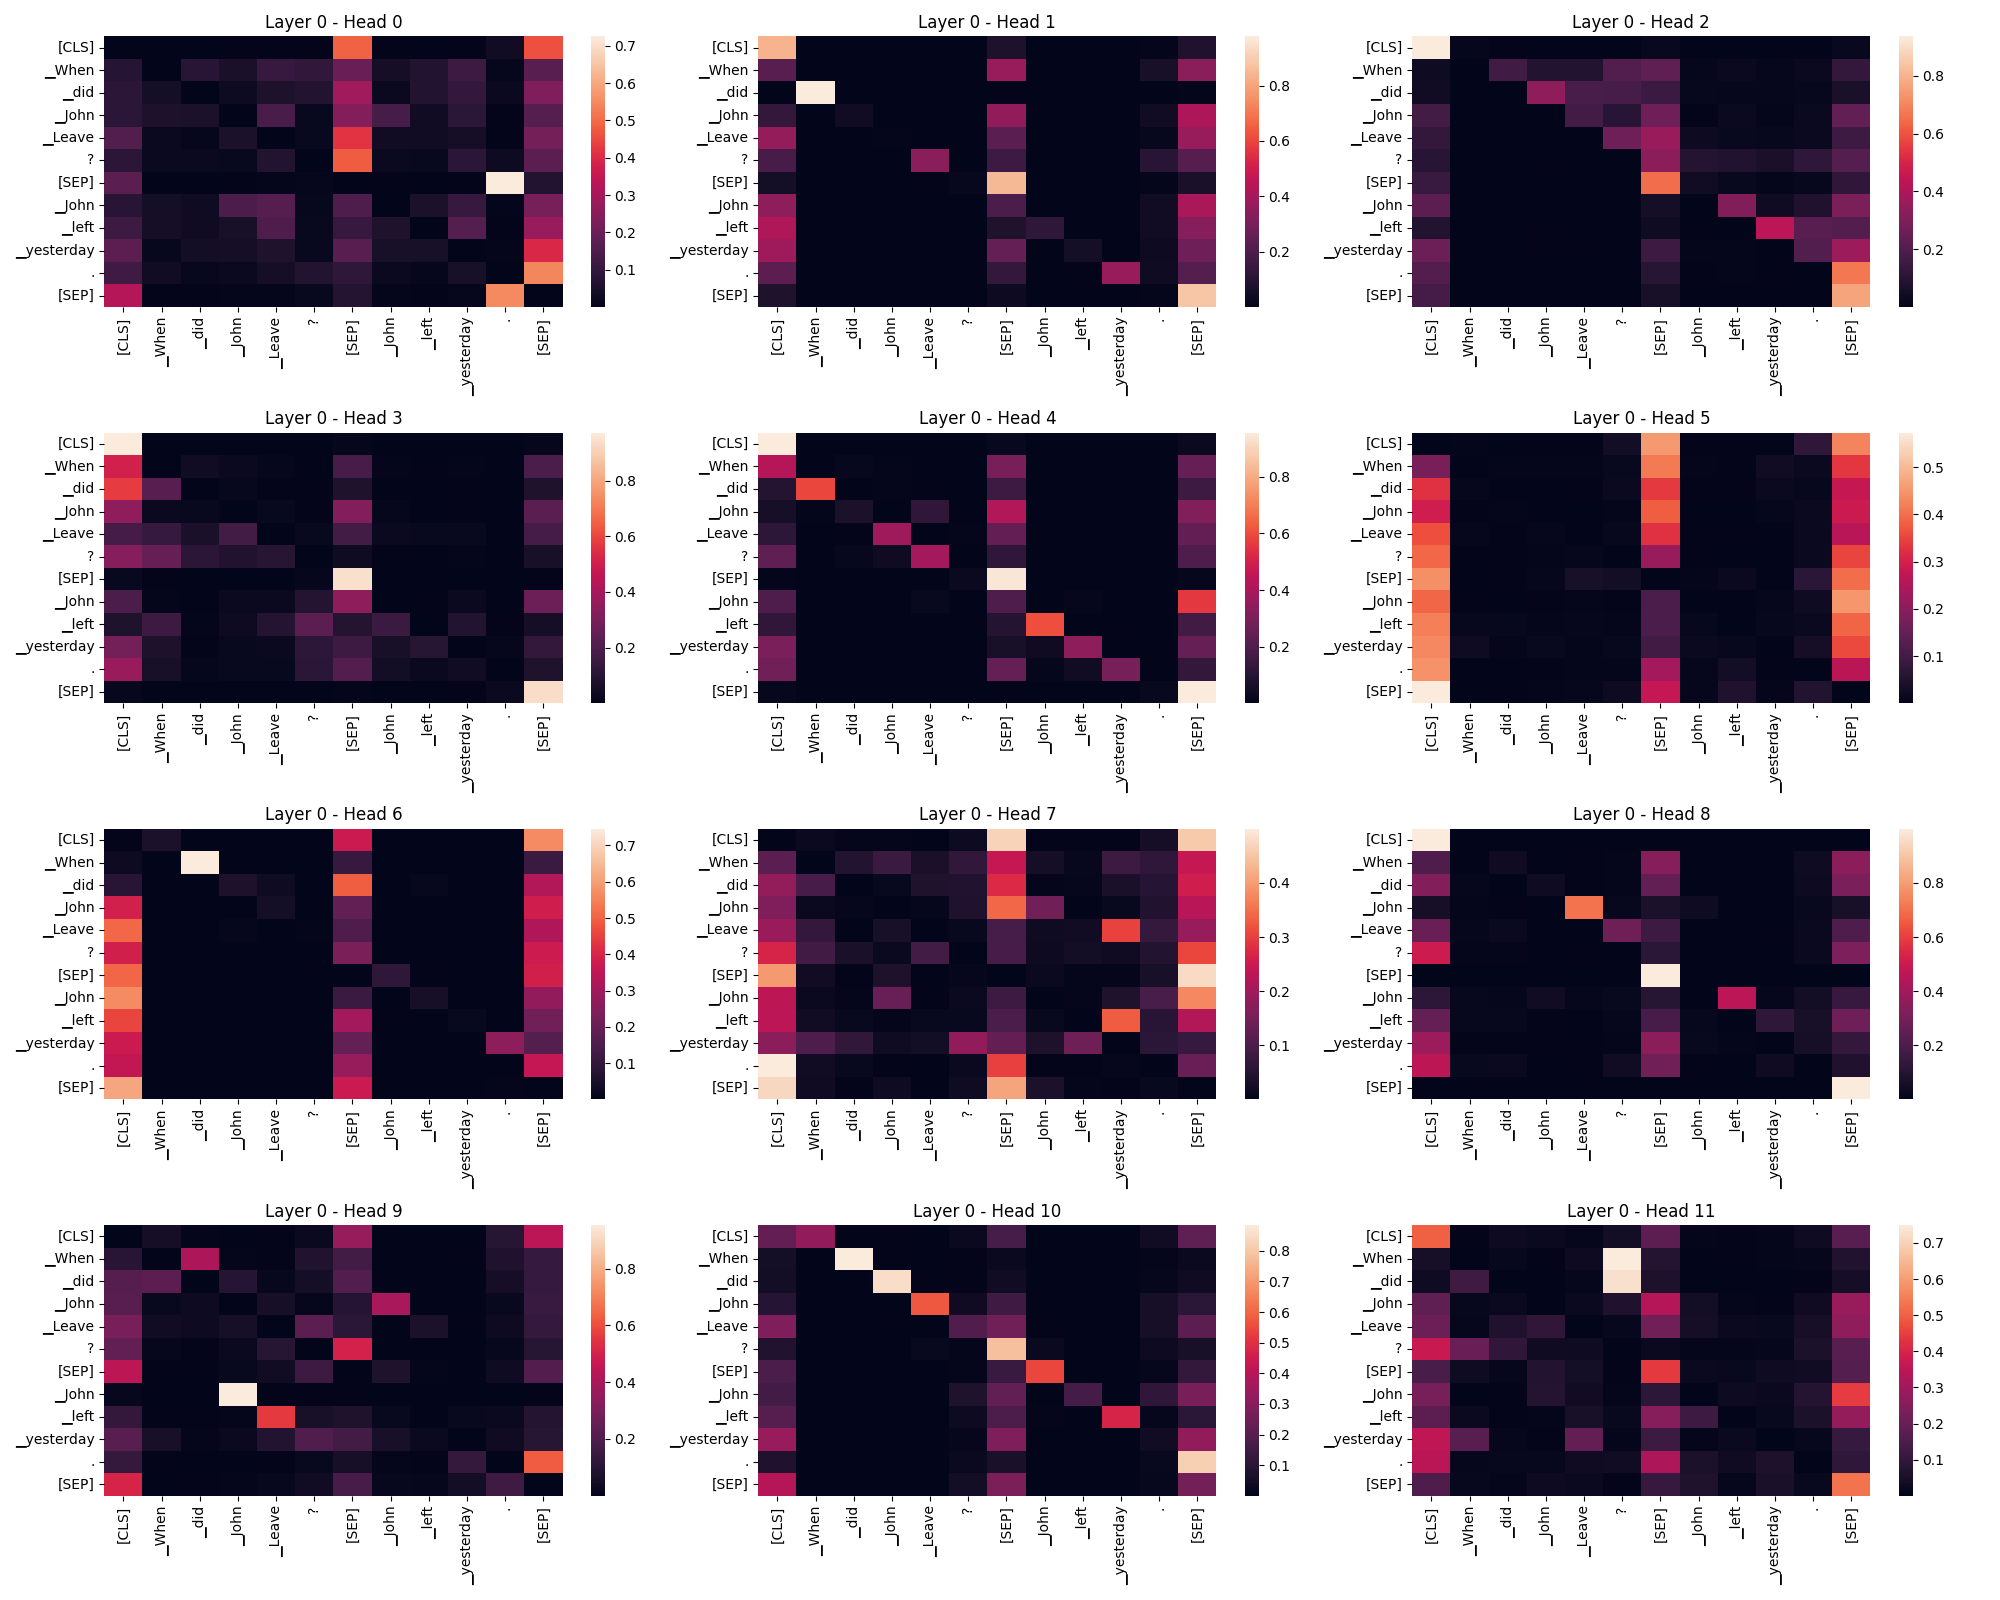
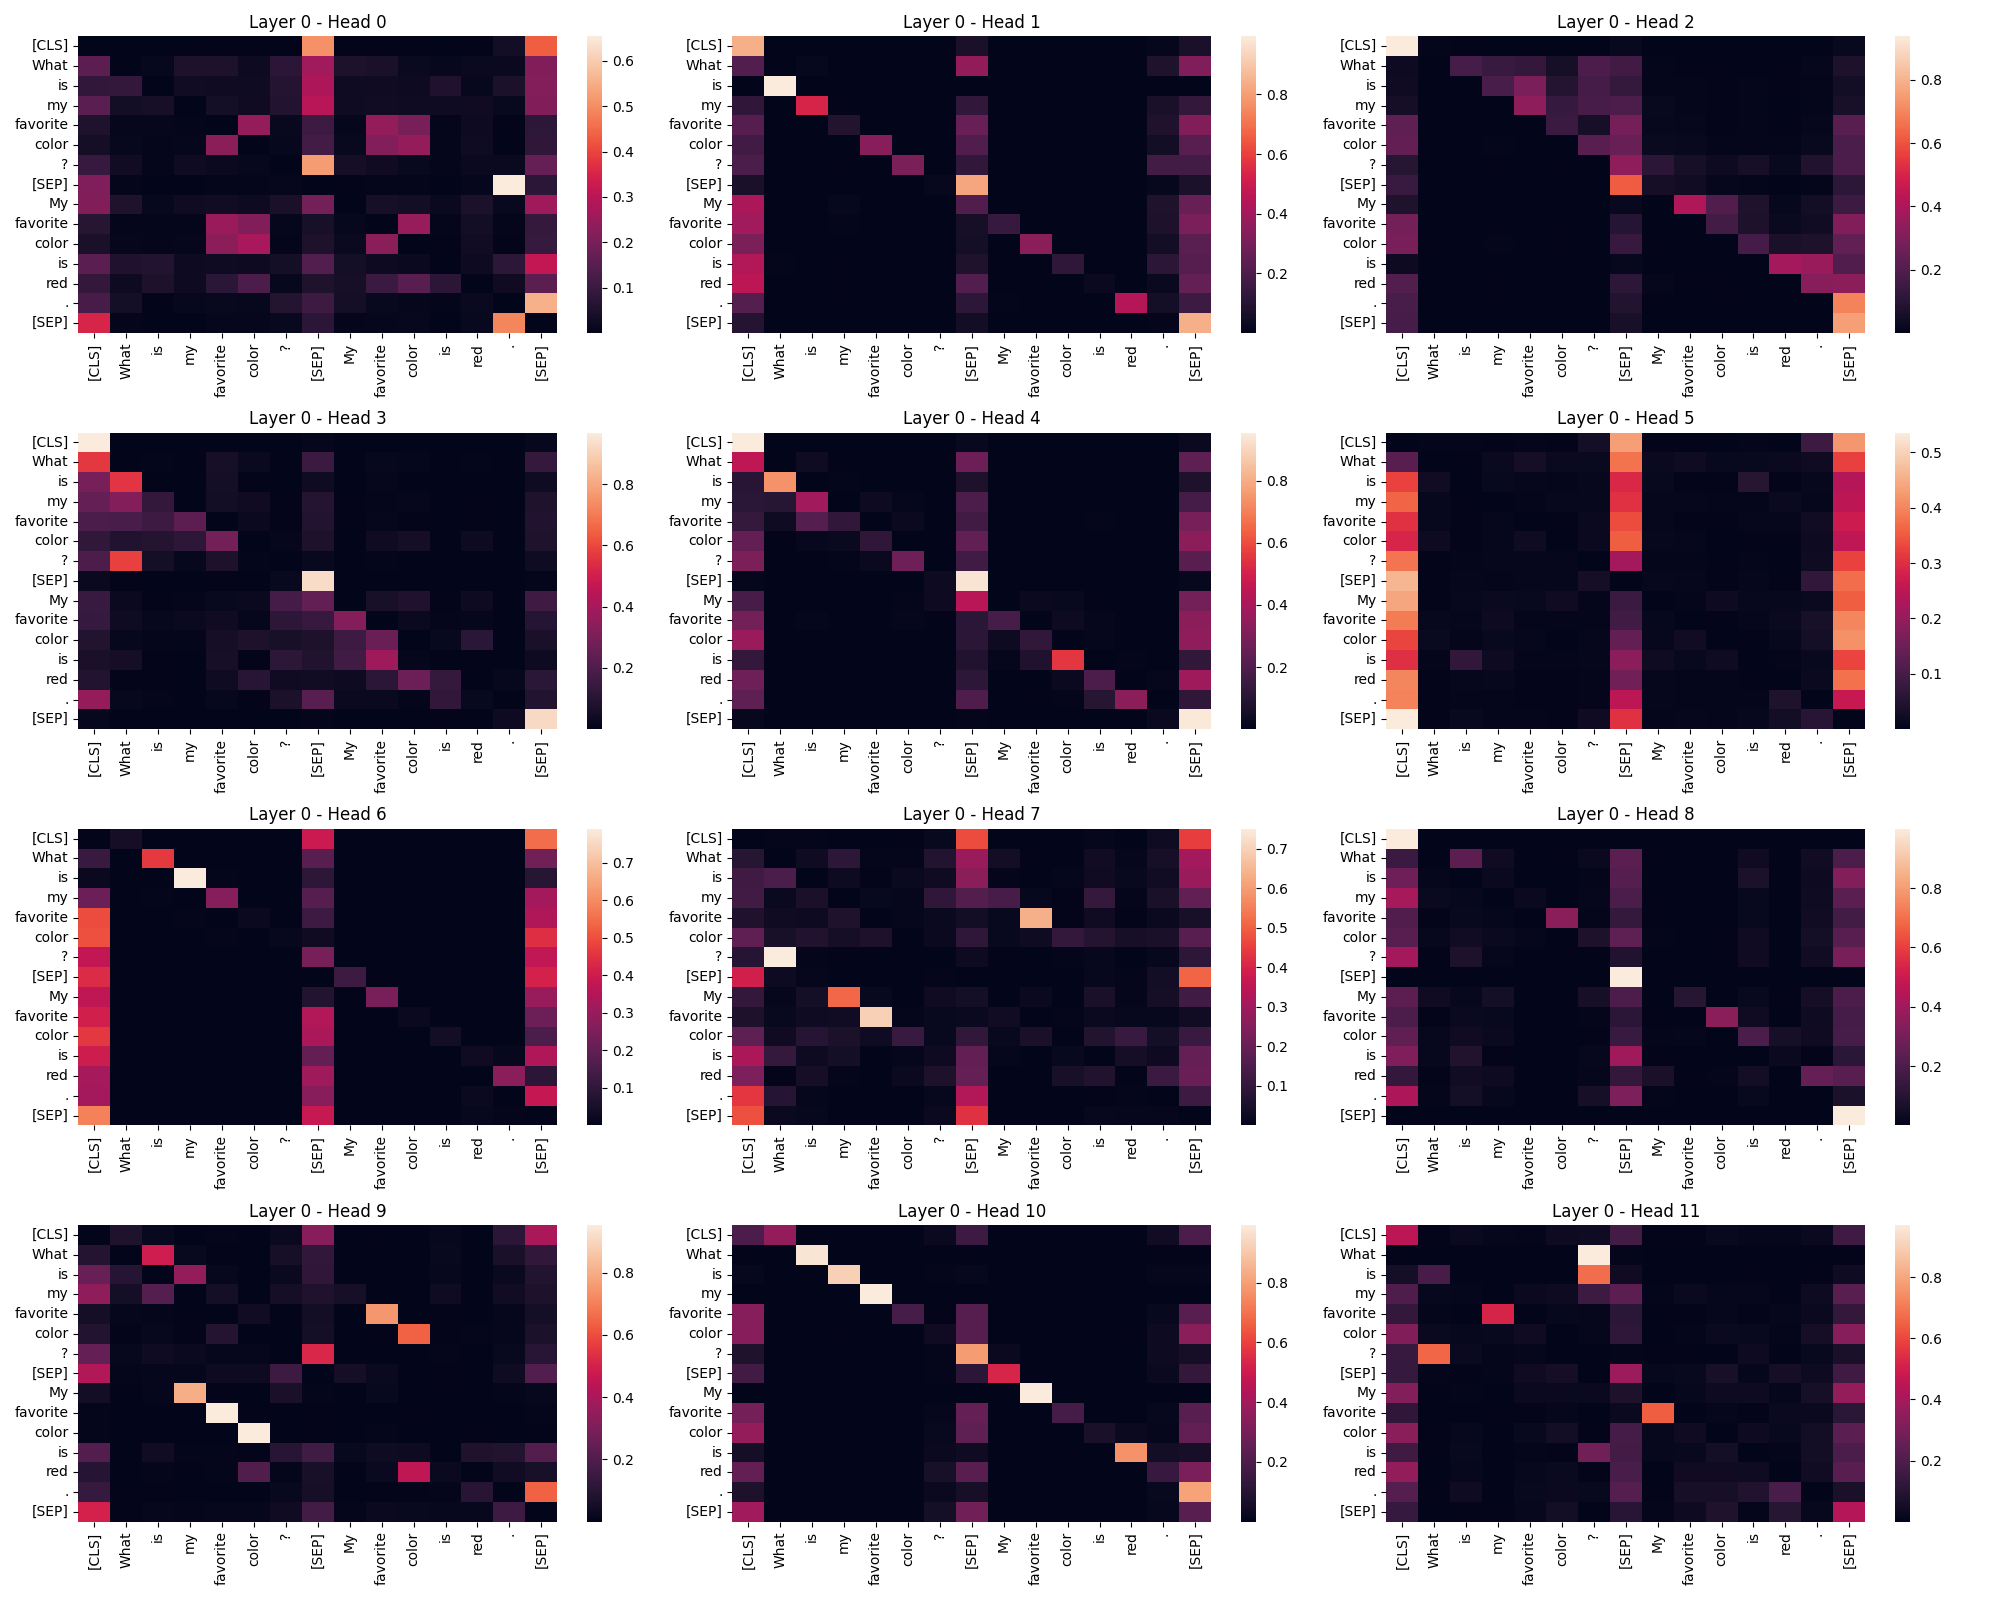
Updated visualizations and README.md

diff --git a/scripts/interactive_attention_analysis.py b/scripts/interactive_attention_analysis.py
@@ -8,7 +8,7 @@ import torch
 import yaml
 from tqdm import tqdm
 from transformers import DebertaV2TokenizerFast, DebertaV2ForQuestionAnswering # change to AutoTokenizer, AutoModelForQuestionAnswering
-from src.attention_analysis import qa_with_attended_token, visualize_attentions
+from src.attention_analysis import qa_with_attended_token, visualize_attentions, visualize_single_attention_head
 from src.utils import load_model_and_tokenizer
 
 def main():
@@ -55,14 +55,27 @@ def main():
                 attention_matrix = attentions[layer_num]
                 num_heads = attention_matrix.size(1)
 
-                tokens = tokenizer.convert_ids_to_tokens(tokenizer.encode_plus(question, response, add_special_tokens=True)['input_ids'])[:attention_matrix.size(-1)]
+                tokens = tokenizer.convert_ids_to_tokens(tokenizer.encode_plus(question, response, add_special_tokens=True)['input_ids'])[:attention_matrix.size(-1)] # ensure correct size
                 processed_tokens = [token.replace('▁', ' ').strip() for token in tokens]
-                visualize_attentions(attention_matrix[0], processed_tokens, num_heads, layer_num, save_dir=f'models/{experiment}/attentions_vis/') 
+                visualize_attentions(attention_matrix[0], processed_tokens, num_heads, layer_num, save_dir=f'models/{experiment}/attentions_vis/')
+                
             print(f"Attentions visualized. See the 'models/{experiment}/attentions_vis' directory for the visualizations.")
+            
+            indiv_attn = input("Would you like to save an individual attention head? (yes/no): ").strip().lower()
+            
+            while True: 
+                if indiv_attn == 'yes':
+                    layer_num = int(input("Enter the layer number: "))
+                    head_num = int(input("Enter the head number: "))
+                    visualize_single_attention_head(attentions, processed_tokens, layer_num, head_num, save_dir=f'models/{experiment}/attentions_vis/individual_heads/')
+                    response = input(f"Individual attention head saved at models/{experiment}/attentions_vis/individual_heads.\nWould you like to save another individual attention head? (yes/no): ")
+                    if response != 'yes':
+                        break
+                    
         else:
             print("Not visualizing attentions.")
         # Ask if the user wants to input another question/context pair
-        another = input("Do you want to analyze another pair? Do (yes/no): ").strip().lower()
+        another = input("Do you want to analyze another question answer pair? (yes/no): ").strip().lower()
         if another != 'yes':
             break
 

diff --git a/src/attention_analysis.py b/src/attention_analysis.py
@@ -66,3 +66,23 @@ def visualize_attentions(attention, tokens, num_heads, layer_num, save_dir):
     file_path = os.path.join(save_dir, f'layer_{layer_num}.png')
     plt.savefig(file_path)
     plt.close()  # Close the plot to free up memory
+    
+def visualize_single_attention_head(attentions, tokens, layer_num, head_num, save_dir):
+    if not os.path.exists(save_dir):
+        os.makedirs(save_dir)
+    
+    attention_head = attentions[layer_num][0][head_num].detach().numpy()
+
+    plt.figure(figsize=(20, 16))
+    ax = plt.axes()
+    sns.heatmap(attention_head, xticklabels=tokens, yticklabels=tokens, ax=ax, cbar=False)
+    ax.set_title(f'Layer {layer_num} - Head {head_num}', fontsize=32)
+
+    ax.tick_params(axis='x', labelsize=18)
+    ax.tick_params(axis='y', labelsize=18)
+    
+    file_path = os.path.join(save_dir, f'layer_{layer_num}_head_{head_num}.png')
+    plt.tight_layout()
+    plt.savefig(file_path)
+    plt.close()  # Close the plot to free up memory
+

diff --git a/tests/test_functions.py b/tests/test_functions.py
@@ -1,0 +1,1 @@
+## TO DO

diff --git a/README.md b/README.md
@@ -3,7 +3,6 @@
 This project implements a question-answering system using Microsoft's DeBERTa model. It includes functionalities to train the model on the SQuAD dataset, analyze the attention mechanisms within the transformer layers, and visualize these attentions to gain insights into the model's focus during inference.
 
 
-
 The way in which a model processes and understands langauge is crucial for understanding how these models work. In this project, an encoder transformer was pretrained to answer questions given some context. The folowing is a sample of the trained model's output:
 
 *Question:* What is my favorite color?  
@@ -77,10 +76,17 @@ Below is a heatmap that visualizes the attention heads in layer 7. Note that Hea
 ### Attention Visualization
 The attention visualizations help in understanding which parts of the input the model focuses on when answering a question. For example, in Layer 7, we observe that the model attends heavily to certain keywords in the context that are crucial for generating the correct answer.
 
-In this heatmap, darker colors represent higher attention weights. The model is focusing on tokens like "transformer", "layers", and "attention", indicating their importance in generating the answer.
+In this heatmap, darker colors represent higher attention weights. The model is focusing on tokens like "What", "is", and "red", indicating their importance in generating the answer. There is also significant attention paid to the '[SEP]` and stop tokens (e.g. '.', '?' in this case), showing that these tokens may be important in allowing the model to understand the semantics of the question and answer pair. 
+
+What is also observed is that the heads in different layers are  not all layers are equal, as we only see attention paid to the answer tokens starting at layer 6. In the earlier layers, it can be seen that the model has several patterns that are likely used to uderstand the nature of the task. For example in layer 0 head 5, the model is paying attention to the special tokens. ![Visualization of attention weights in Layer 0 head 5](models/experiment_1/attentions_vis/individual_heads/layer_0_head_5.png)
+
+
+In the same layer, head 10 demonstrates another pattern where the tokens attend to individual tokens within the same sentence "e.g. "What" pays attention to "is" in the question. ![Visualization of attention weights in Layer 0 head 10](models/experiment_1/attentions_vis/individual_heads/layer_0_head_10.png)
+
+Lastly we see in layer 3 - head 11 an example of cross attention, where the tokens in the question attend to tokens in the answer and vice-versa. Note that the token for 'color' in the question attends to both 'color' and 'red' in the answer. ![Visualization of attention weights in Layer 3 head 1](models/experiment_1/attentions_vis/individual_heads/layer_3_head_11.png)
 
 ### Performance Metrics
-After training the model for 10, the model achieved the following performance on the validation set:
+After training the model for 10 epochs, the model achieved the following performance on the validation set:
 
 Validation Loss: 0.788  
 Exact Match (EM): 64.8%  
